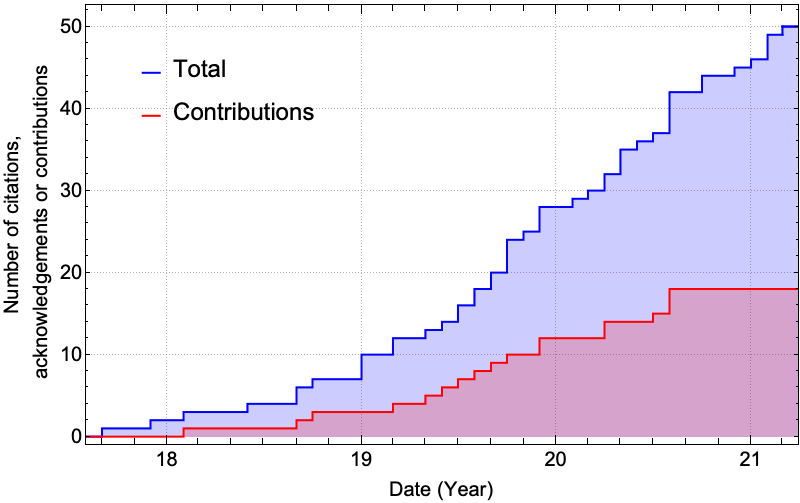
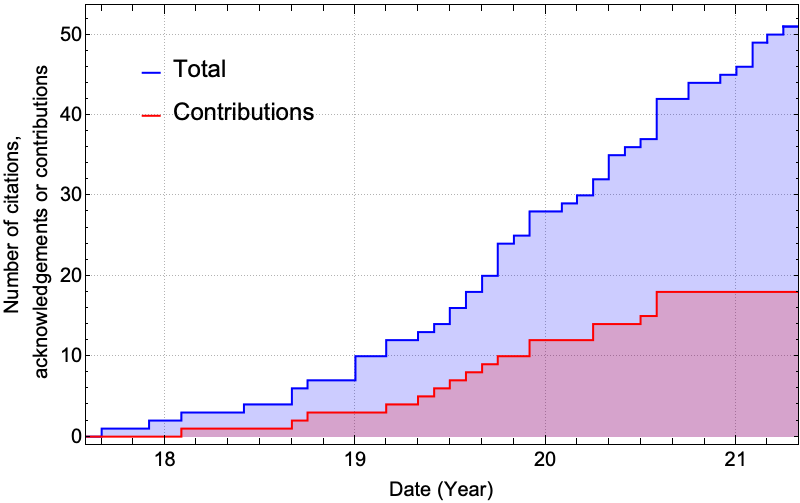
Add paper that cites the Toolkit

diff --git a/users.md b/users.md
@@ -19,6 +19,8 @@ The graph below show the accumulated citations to the Toolkit over time. The blu
 
 Below is a list of research papers that have used or extended the Toolkit. Papers that have contributed code or data to the Toolkit have a (*) after them.
 
+51\. Importance of tidal resonances in extreme-mass-ratio inspirals, Priti Gupta, Béatrice Bonga, Alvin J. K. Chua, Takahiro Tanaka, [arXiv:2104.03422](https://arxiv.org/abs/2104.03422)
+
 50\. Assessing the impact of transient orbital resonances, Lorenzo Speri, Jonathan R. Gair, [arXiv:2103.06306](https://arxiv.org/abs/2103.06306)
 
 49\. Stellar transits across a magnetized accretion torus as a mechanism for plasmoid ejection, Petra Suková, Michal Zajaček, Vojtěch Witzany, Vladimír Karas, [arXiv:2102.08135](https://arxiv.org/abs/2102.08135)
